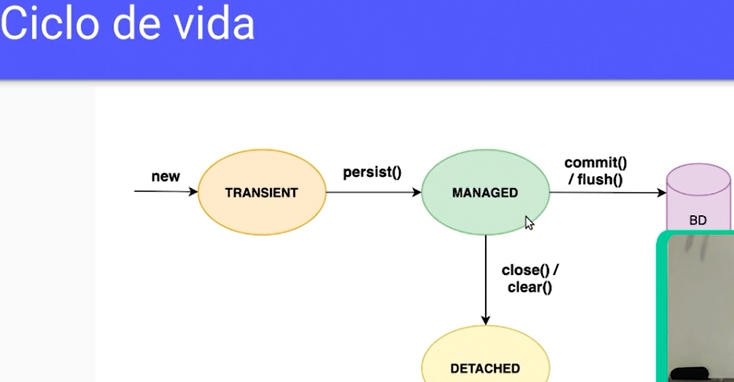
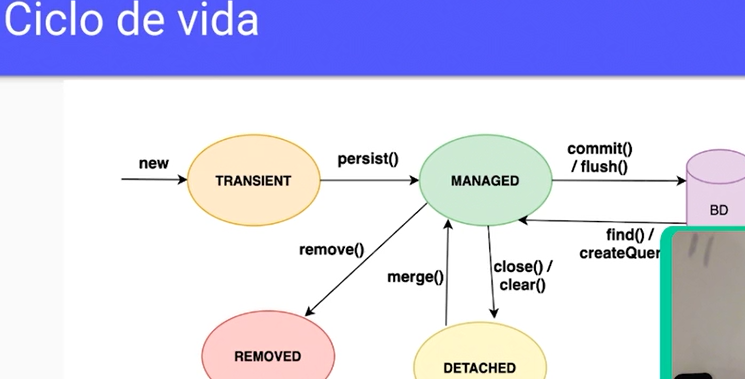
readme.md

diff --git a/alura-java-jpa-persista-seus-objetos-com-JPA2-e-hibernate/README.MD b/alura-java-jpa-persista-seus-objetos-com-JPA2-e-hibernate/README.MD
@@ -1,6 +1,35 @@
+## CICLO DE VIDA JPA:
 ![ciclo vida jpa 1](ciclo_vida_jpa.PNG "ciclo vida jpa 2")
 
 1. TRANSIENT: 
 - nunca foi persistido, n tem ID, n está sendo gerenciado pela JPA
 - como se fosse objeto JAVA puro
 - n vai salvar no BD se sincronizar/fizer commit da transação
+
+2. MANAGED:
+- JPA está de olho e qualquer alteração nos atributos, vai persistir p o BD qdo ocorrer flush/commit
+- se eu n quiser encerrar a transação, mas quiser sincronizar com o banco, usar metodo flush() (por ex, p gerar ID no BD)
+- metodo clear() serve para limpar as entidades gerenciadas pelo Entity Manager (EM) deixando no estado DETACHED.
+
+3. DETACHED: 
+- já tem ID, já está salvo no BD, mas n está mais sendo GERENCIADO pelo EM e por isso, se mexer nos valores dos atributos, n vai alterar nd no BD.
+- com o metodo merge(), volta-se o estado p MANAGED (atraves de mais um SELECT).
+- o metodo merge() tem uma pegadinha: ele não muda o estado dessa ENTIDADE passada como argumento para MANAGED; ele devolve uma REFERENCIA e essa SIM está com o estado MANAGED: celulares = em.merge(celulares); (CERTO) x em.merge(celulares); (ERRADO).
+
+4. REMOVED:
+- com o metodo remove(), estando no estado MANAGED, vai gerar um DELETE no BD.
+- exemplo de metodo remover na DAO:
+
+```
+	categoria = em.merge(categoria);
+	this.em.remove(categoria);
+```
+
+## SELECT:
+ 
+```
+jpql = "SELECT p.preco from Produto where p.categoria.nome = :nome";
+```
+
+- qdo for buscar pelo nome da categoria do produto, por ex, por ser O.O., já vai fazer o join. 
+- qdo quiser apenas buscar um atributo no SELECT, usar 'p.preco', por ex.
